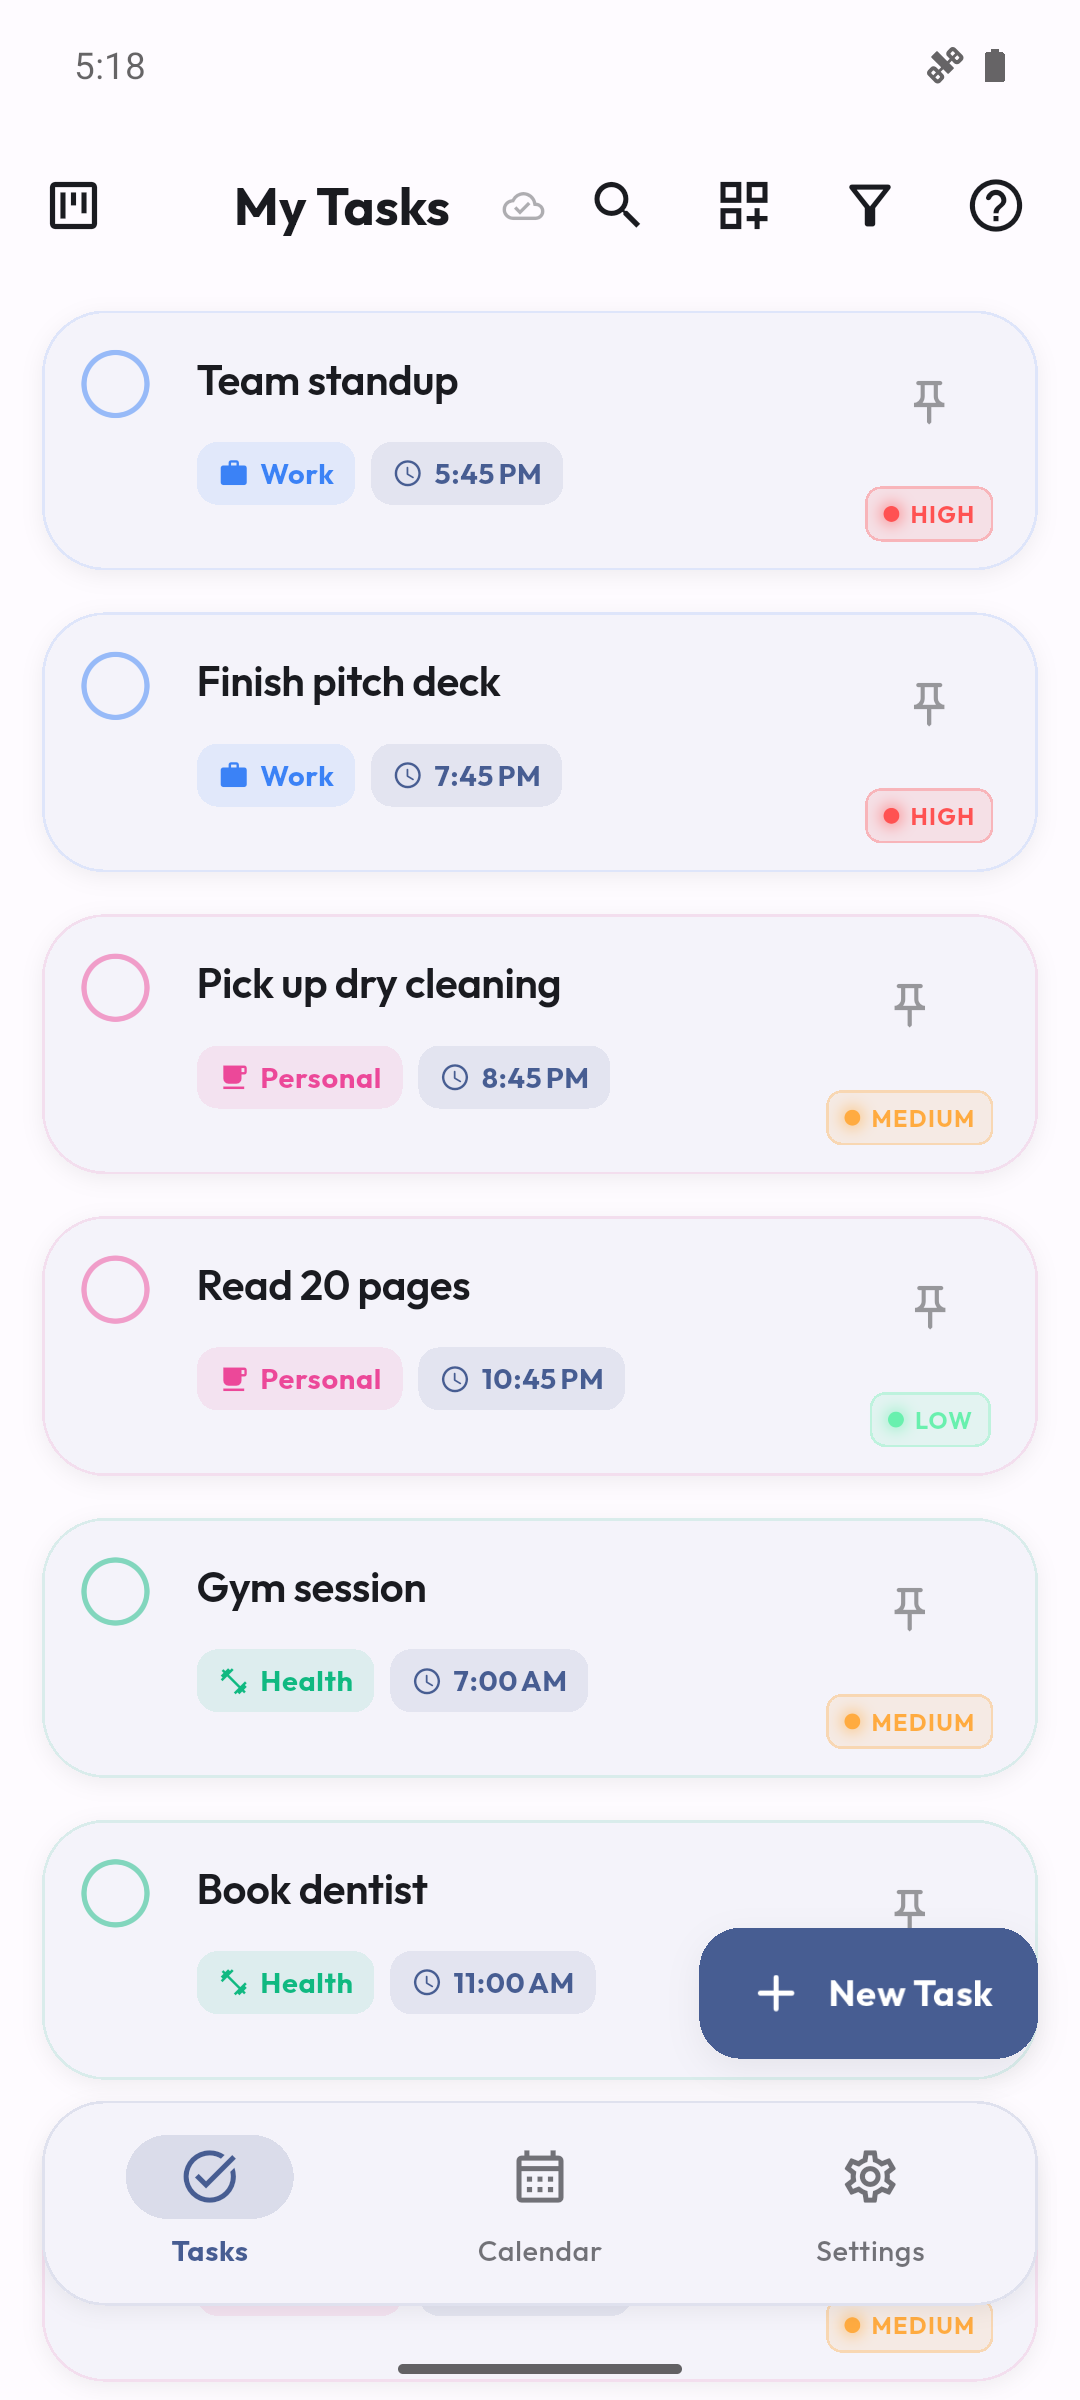
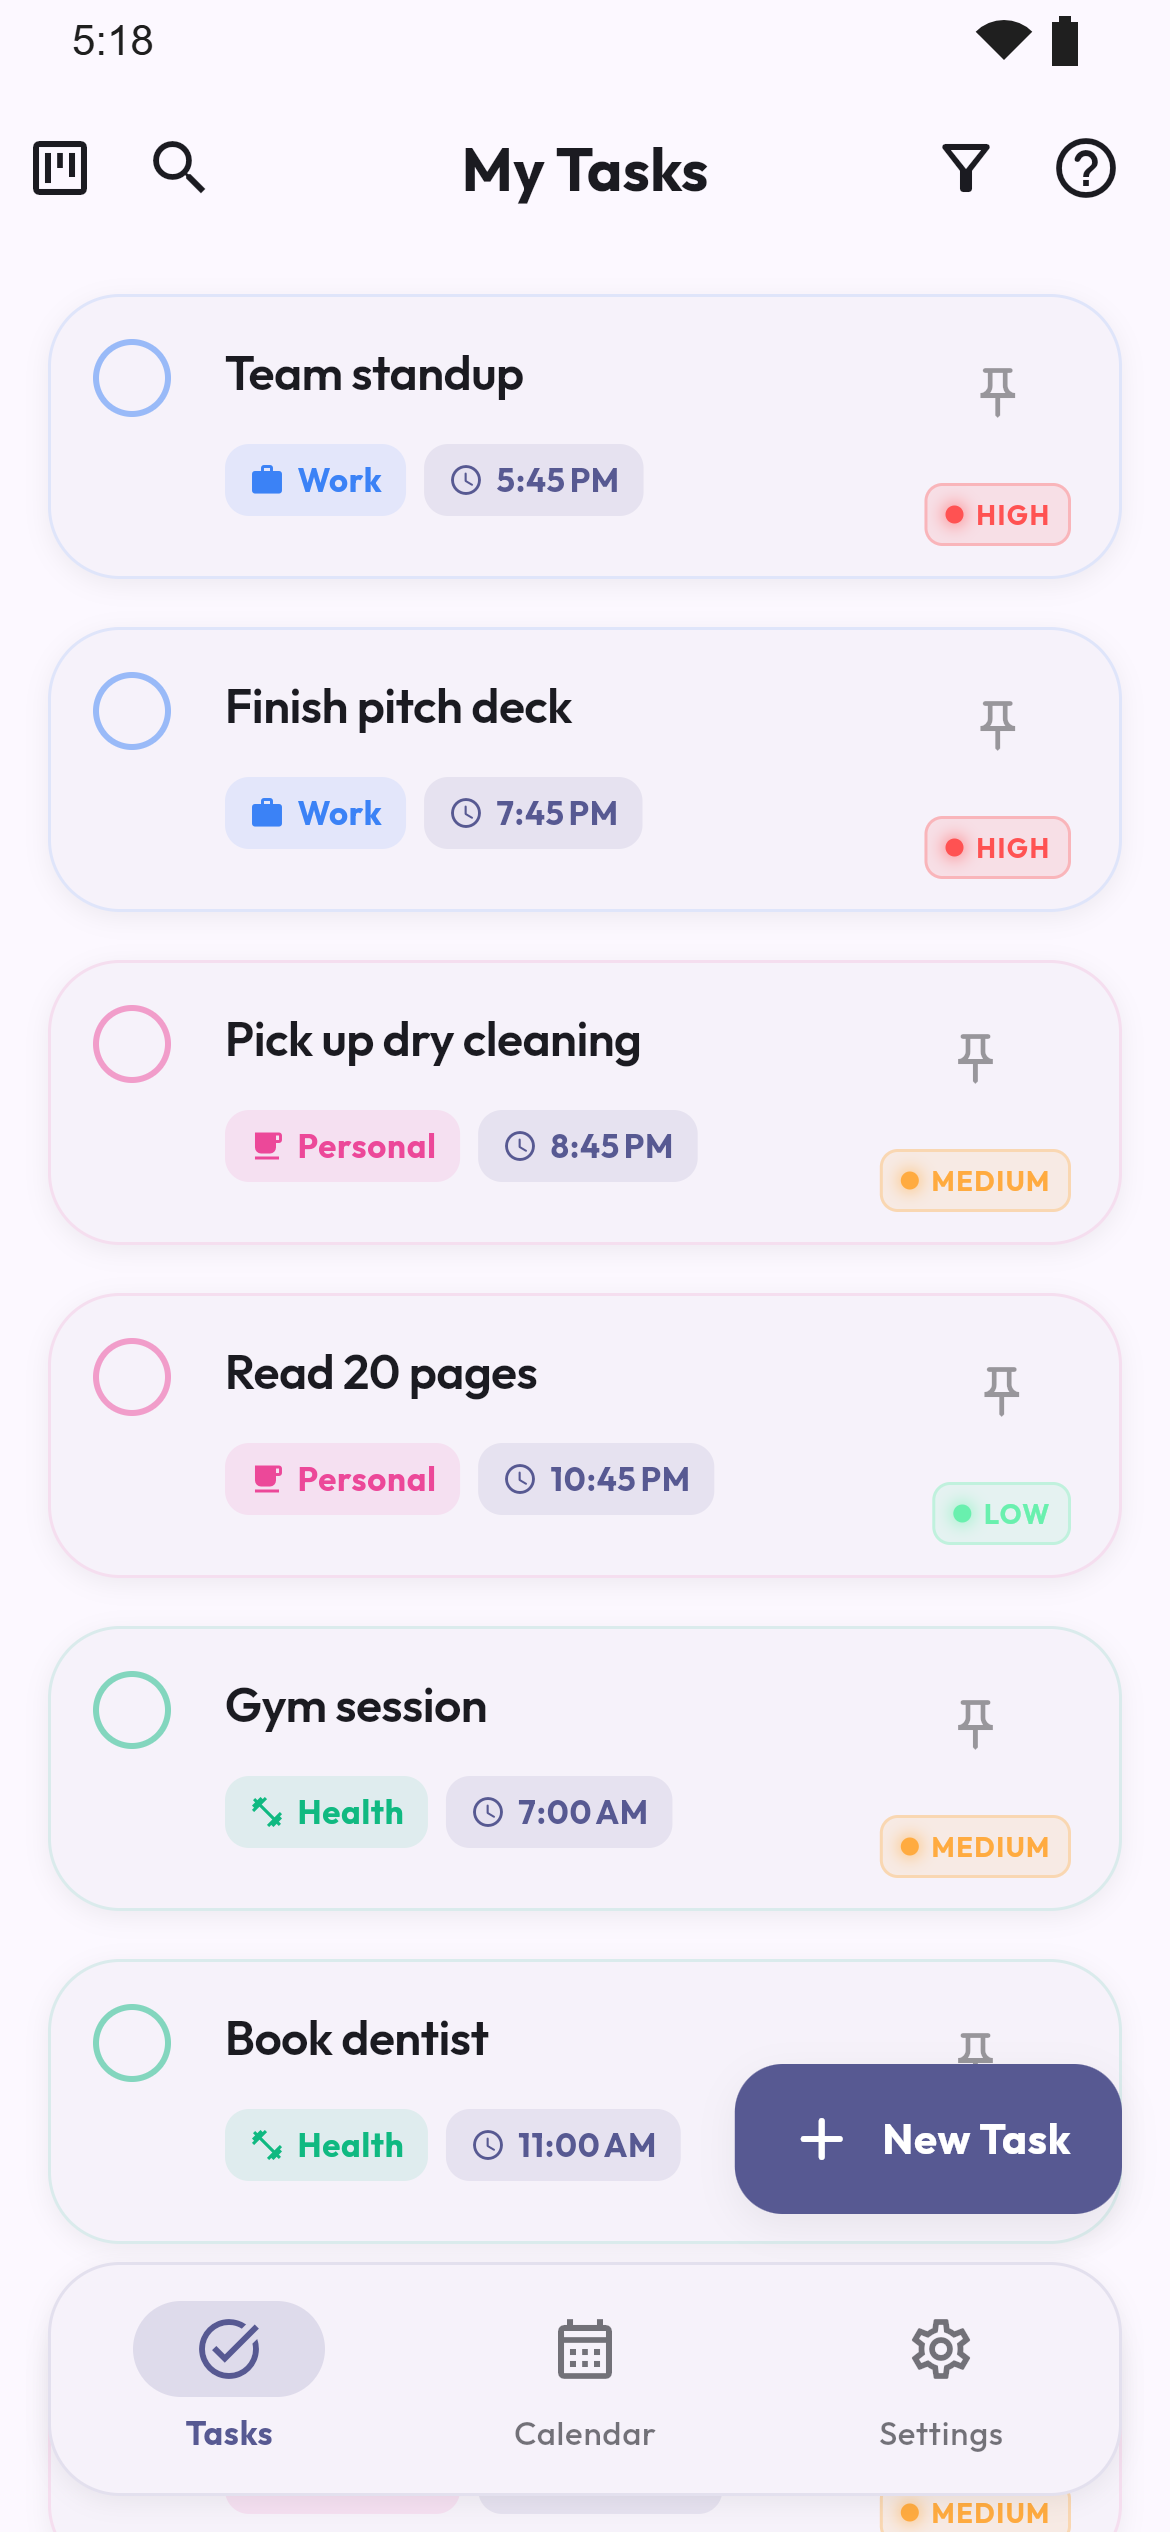
chore(store-screenshots): sample refresh, slide 4 new top bar, slide 8 QR/link sharing (en)

diff --git a/tools/store-screenshots/scripts/shoot_editor.py b/tools/store-screenshots/scripts/shoot_editor.py
@@ -9,7 +9,7 @@ action = sys.argv[1] if len(sys.argv) > 1 else 'preview'
 with sync_playwright() as p:
     browser = p.chromium.launch(headless=True)
     page = browser.new_page(viewport={'width': 1800, 'height': 1100}, accept_downloads=True)
-    page.goto('http://localhost:3100', wait_until='networkidle')
+    page.goto('http://localhost:3100', wait_until='load')
     page.wait_for_timeout(4000)
     if action == 'preview':
         page.screenshot(path=os.path.join(OUT, 'editor.png'))
